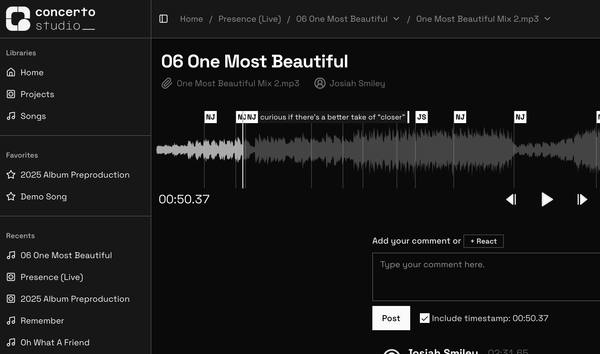
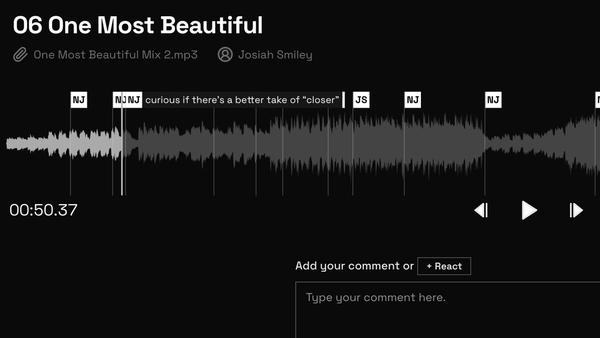
Feature Descry and Omle in place of Birren; recrop Concerto thumbnail
Concerto's thumbnail now crops to the player and comment markers at 2x
column width instead of shrinking the whole window to 400px. Descry uses
its social card padded to 16:9. Omle has no image yet. Birren moves to More.

Claude-Session: https://claude.ai/code/session_01MR2CWujRdjjJATaiHuqJbT

diff --git a/src/data/projects.ts b/src/data/projects.ts
@@ -26,8 +26,8 @@ export const FEATURED_PROJECTS: Project[] = [
       avif: "/images/avif/concerto-studio.avif",
       webp: "/images/webp/concerto-studio.webp",
       fallback: "/images/eink/concerto-studio.jpg",
-      width: 400,
-      height: 236,
+      width: 1216,
+      height: 684,
     },
   },
   {
@@ -43,16 +43,21 @@ export const FEATURED_PROJECTS: Project[] = [
     },
   },
   {
-    name: "Birren Colors",
-    url: "https://birren.vercel.app/",
-    description: "Industrial color palettes from Faber Birren",
+    name: "Descry",
+    url: "https://getdescry.com/",
+    description: "Name every peak on the horizon",
     image: {
-      avif: "/images/avif/birren.avif",
-      webp: "/images/webp/birren.webp",
-      fallback: "/images/eink/birren.jpg",
-      width: 400,
-      height: 210,
+      avif: "/images/avif/descry.avif",
+      webp: "/images/webp/descry.webp",
+      fallback: "/images/eink/descry.jpg",
+      width: 1200,
+      height: 675,
     },
+  },
+  {
+    name: "Omle",
+    url: "https://omle.r-cha.dev/",
+    description: "Private AI art, on your iPhone",
   },
 ];
 
@@ -61,6 +66,11 @@ export const OTHER_PROJECTS: Project[] = [
     name: "encourage.nvim",
     url: "https://github.com/r-cha/encourage.nvim",
     description: "Cure your impostor syndrome",
+  },
+  {
+    name: "Birren Colors",
+    url: "https://birren.vercel.app/",
+    description: "Industrial color palettes from Faber Birren",
   },
   {
     name: "HDRify",
